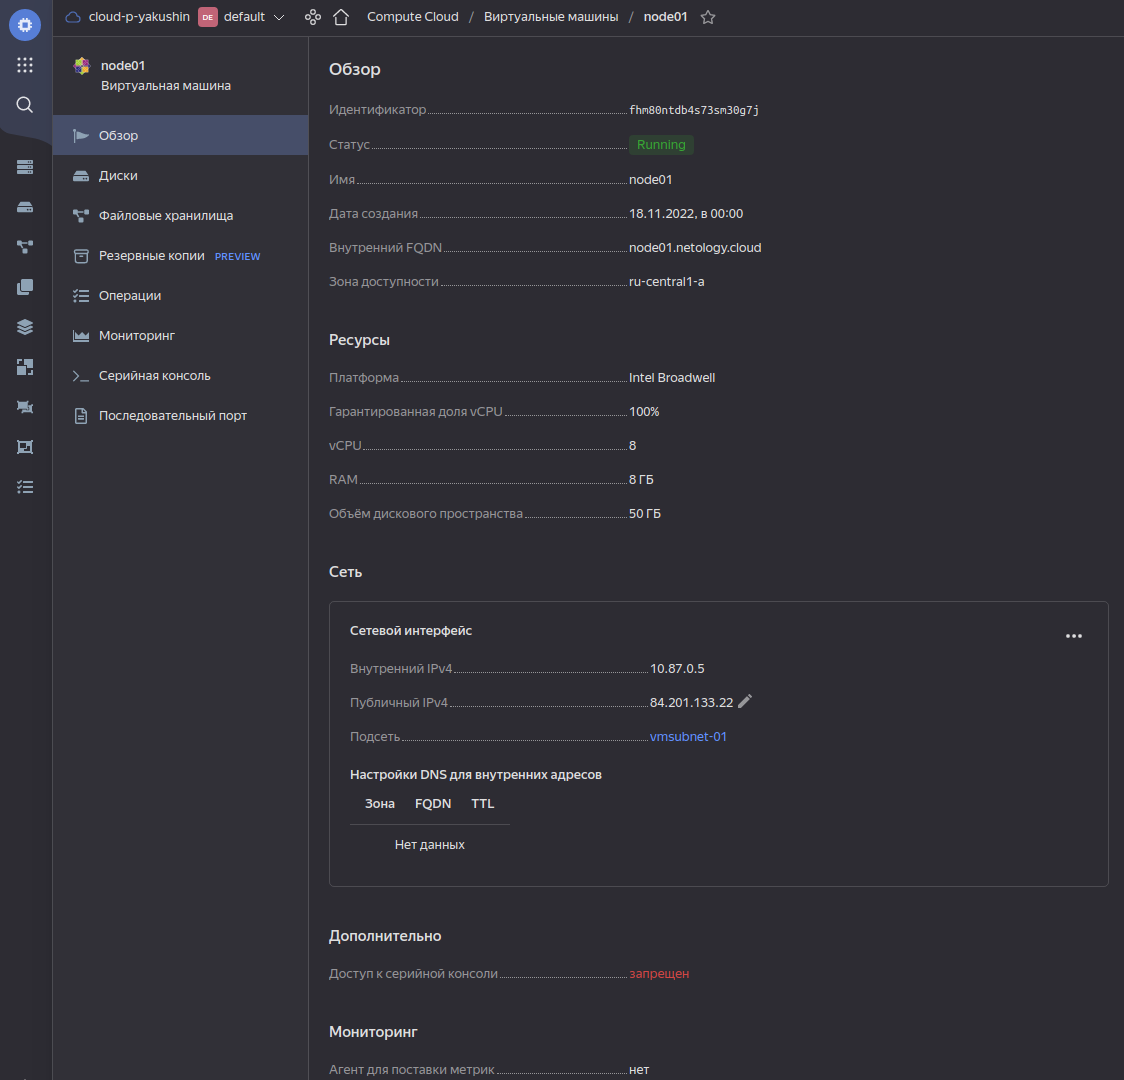
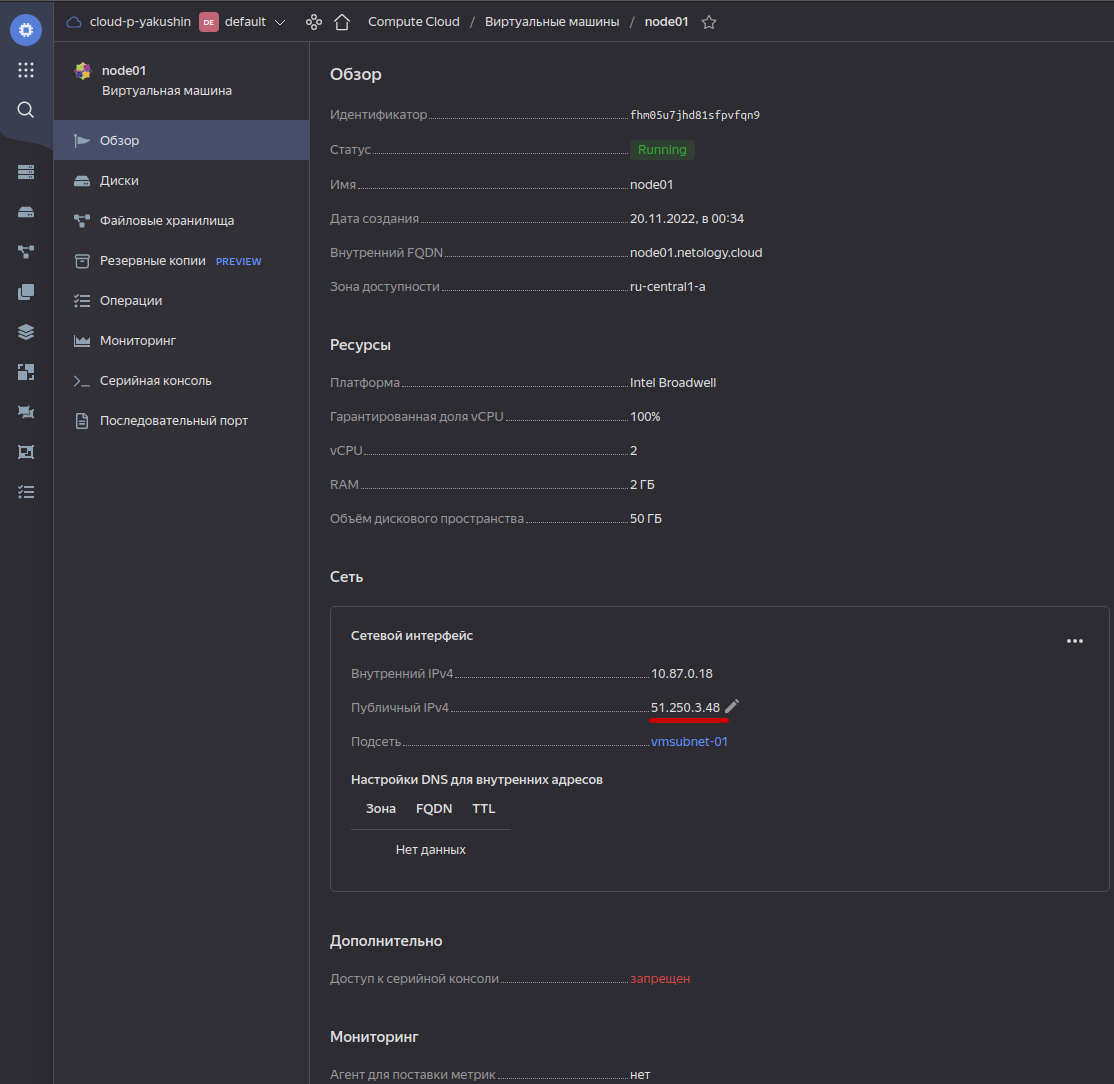
Update homework

diff --git a/05-virt-04-docker-compose/README.md b/05-virt-04-docker-compose/README.md
@@ -40,6 +40,14 @@ provider_installation {
   }
 }
 ```
+
+- вот где-то тут сдох пк вместе с пачкой невыполненных пушей
+- делаем всё заново
+- Ansible - не будет работать пока мы форсированно не укажем на кфг
+```shell
+export ANSIBLE_CONFIG=/mnt/hgfs/GIT/devops-netology/05-virt-04-docker-compose/worker/ansible/ansible.cfg
+```
+
 </details>
 
 1. Слайда 37 не существует.
@@ -51,8 +59,8 @@ provider_installation {
 +----------------------+---------------+--------+----------------------+--------+
 |          ID          |     NAME      | FAMILY |     PRODUCT IDS      | STATUS |
 +----------------------+---------------+--------+----------------------+--------+
-| fd8ot27sbc2af23c4ra4 | centos-7-base | centos | f2ej5s7bl29i345722rn | READY  |
-+----------------------+---------------+--------+----------------------+--------+ 
+| fd8334qlusn476orq2ld | centos-7-base | centos | f2ej5s7bl29i345722rn | READY  |
++----------------------+---------------+--------+----------------------+--------+
 ```
 
 ## Задача 2
@@ -71,6 +79,10 @@ provider_installation {
 
 Для получения зачета, вам необходимо предоставить:
 - Скриншот работающего веб-интерфейса Grafana с текущими метриками, как на [примере](assets/yc_02.png)
+
+### Ответ
+![скриншот](./img/node1.png)
+![скриншот](./img/web.png)
 
 ## Задача 4 (*)
 
